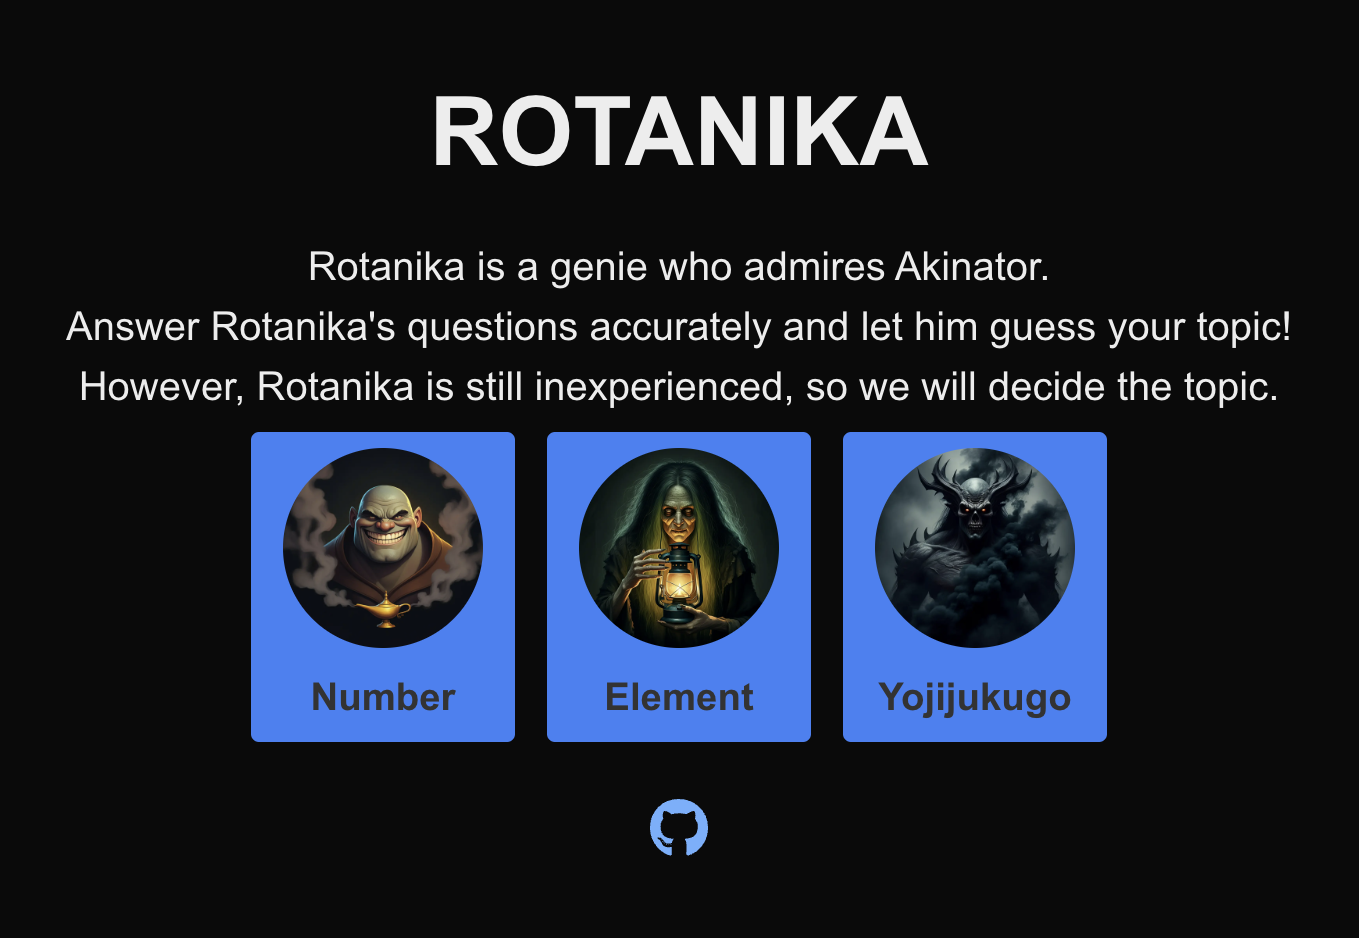
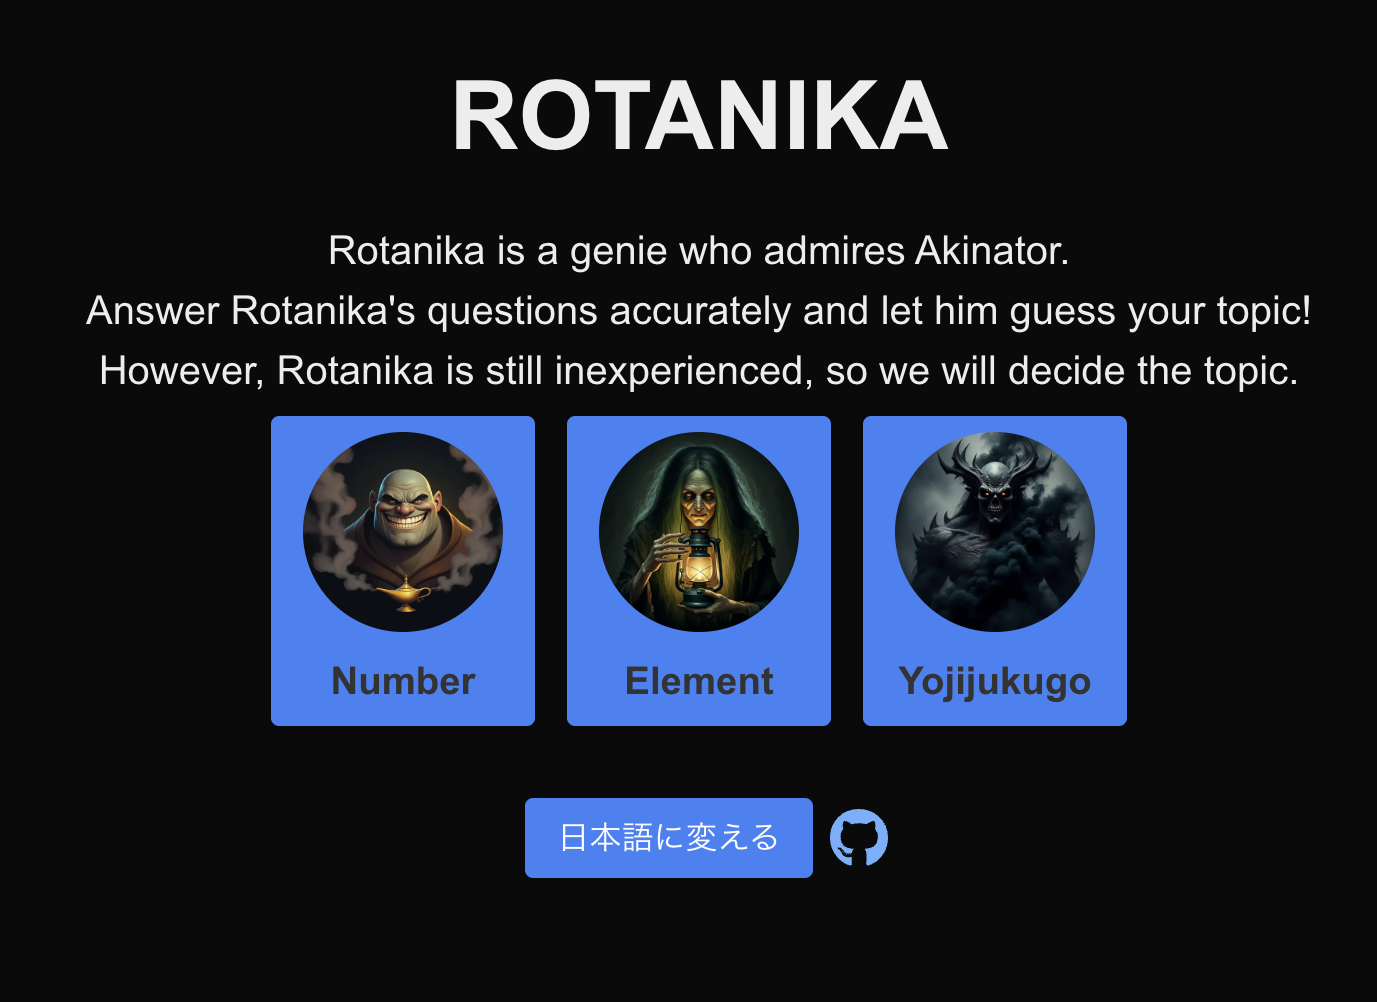
fix image

Changed region(s): [[0.0309, 0.2164, 0.9581, 0.9275], [0.3091, 0.0618, 0.7108, 0.1855]]

diff --git a/README.md b/README.md
@@ -1,26 +1,9 @@
 ![](https://komarev.com/ghpvc/?username=soranjiro&color=blue)
 # Hi 👋  Wanna play a game?
 
-<script>
-  // 言語を判定する変数（例: 'ja', 'en', 'fr'）
-  var language = navigator.language || navigator.userLanguage;
-
-  // 言語に応じたURLと画像パスを設定
-  var url, imgSrc;
-  if (language.startsWith('ja')) {
-    url = "https://rotanika-next.vercel.app/";
-    imgSrc = "./images/rotanika.png";
-  } else if (language.startsWith('en')) {
-    url = "https://rotanika-next-3jd9hm06f-soranjiros-projects.vercel.app/";
-    imgSrc = "./images/rotanika_en.png";
-  } else {
-    url = "https://rotanika-next.vercel.app";
-    imgSrc = "./images/rotanika.png";
-  }
-
-  // HTMLのリンクタグと画像タグを生成
-  document.write('<a href="' + url + '"><img src="' + imgSrc + '" alt="Rotanika" title="Rotanika"></a>');
-</script>
+<a href="https://vercel.com/soranjiros-projects/rotanika-next/AR9CXJFgmeZDSJch2vXQERMTMcfZ">
+	<img src="./images/rotanika-en.png" alt="Rotanika" title="Rotanika">
+</a>
 
 <div align="center">
     <h1>
